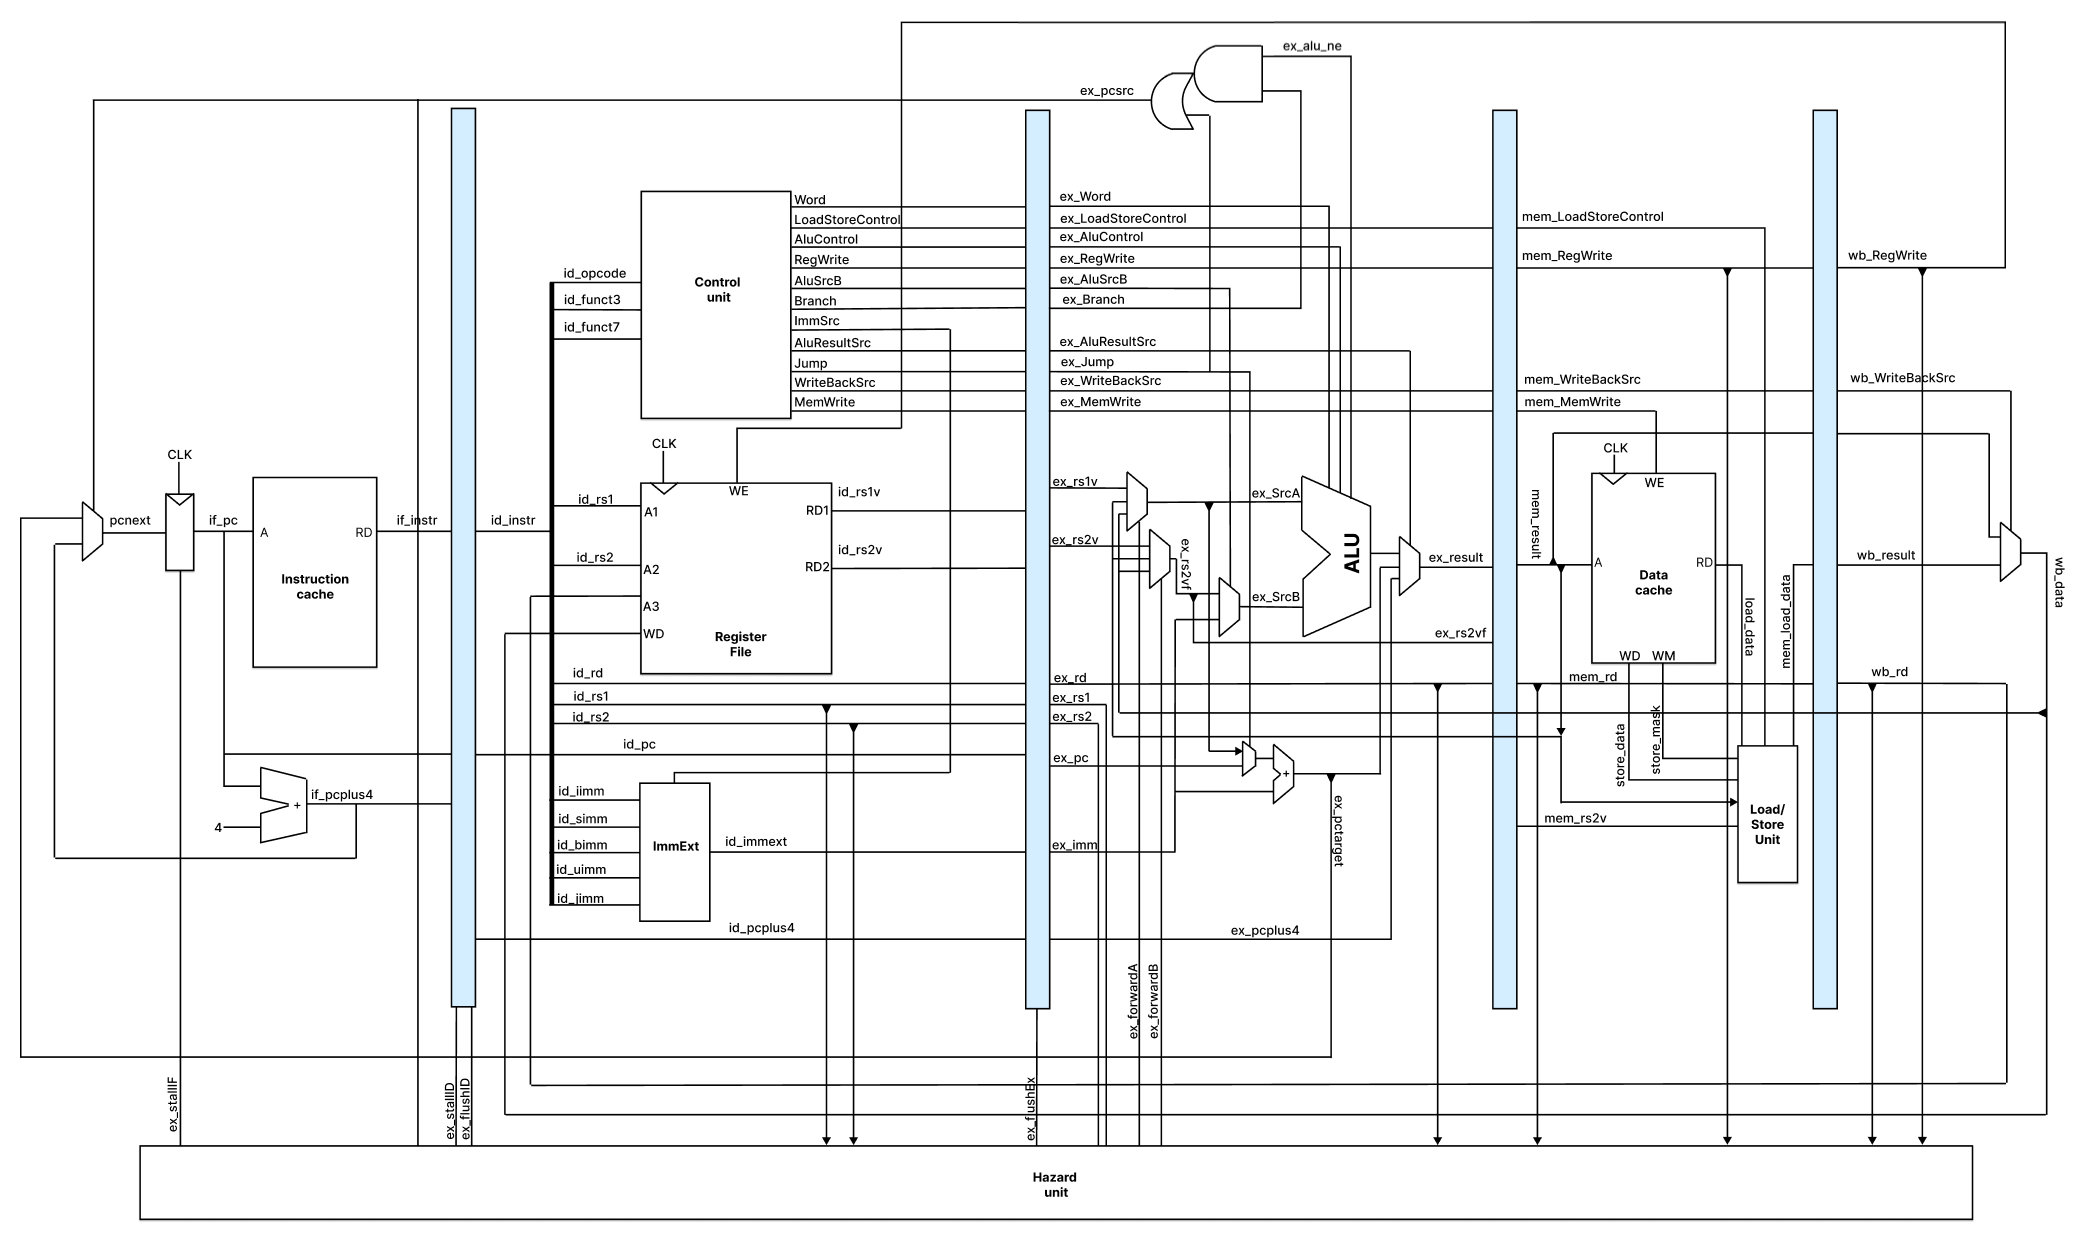
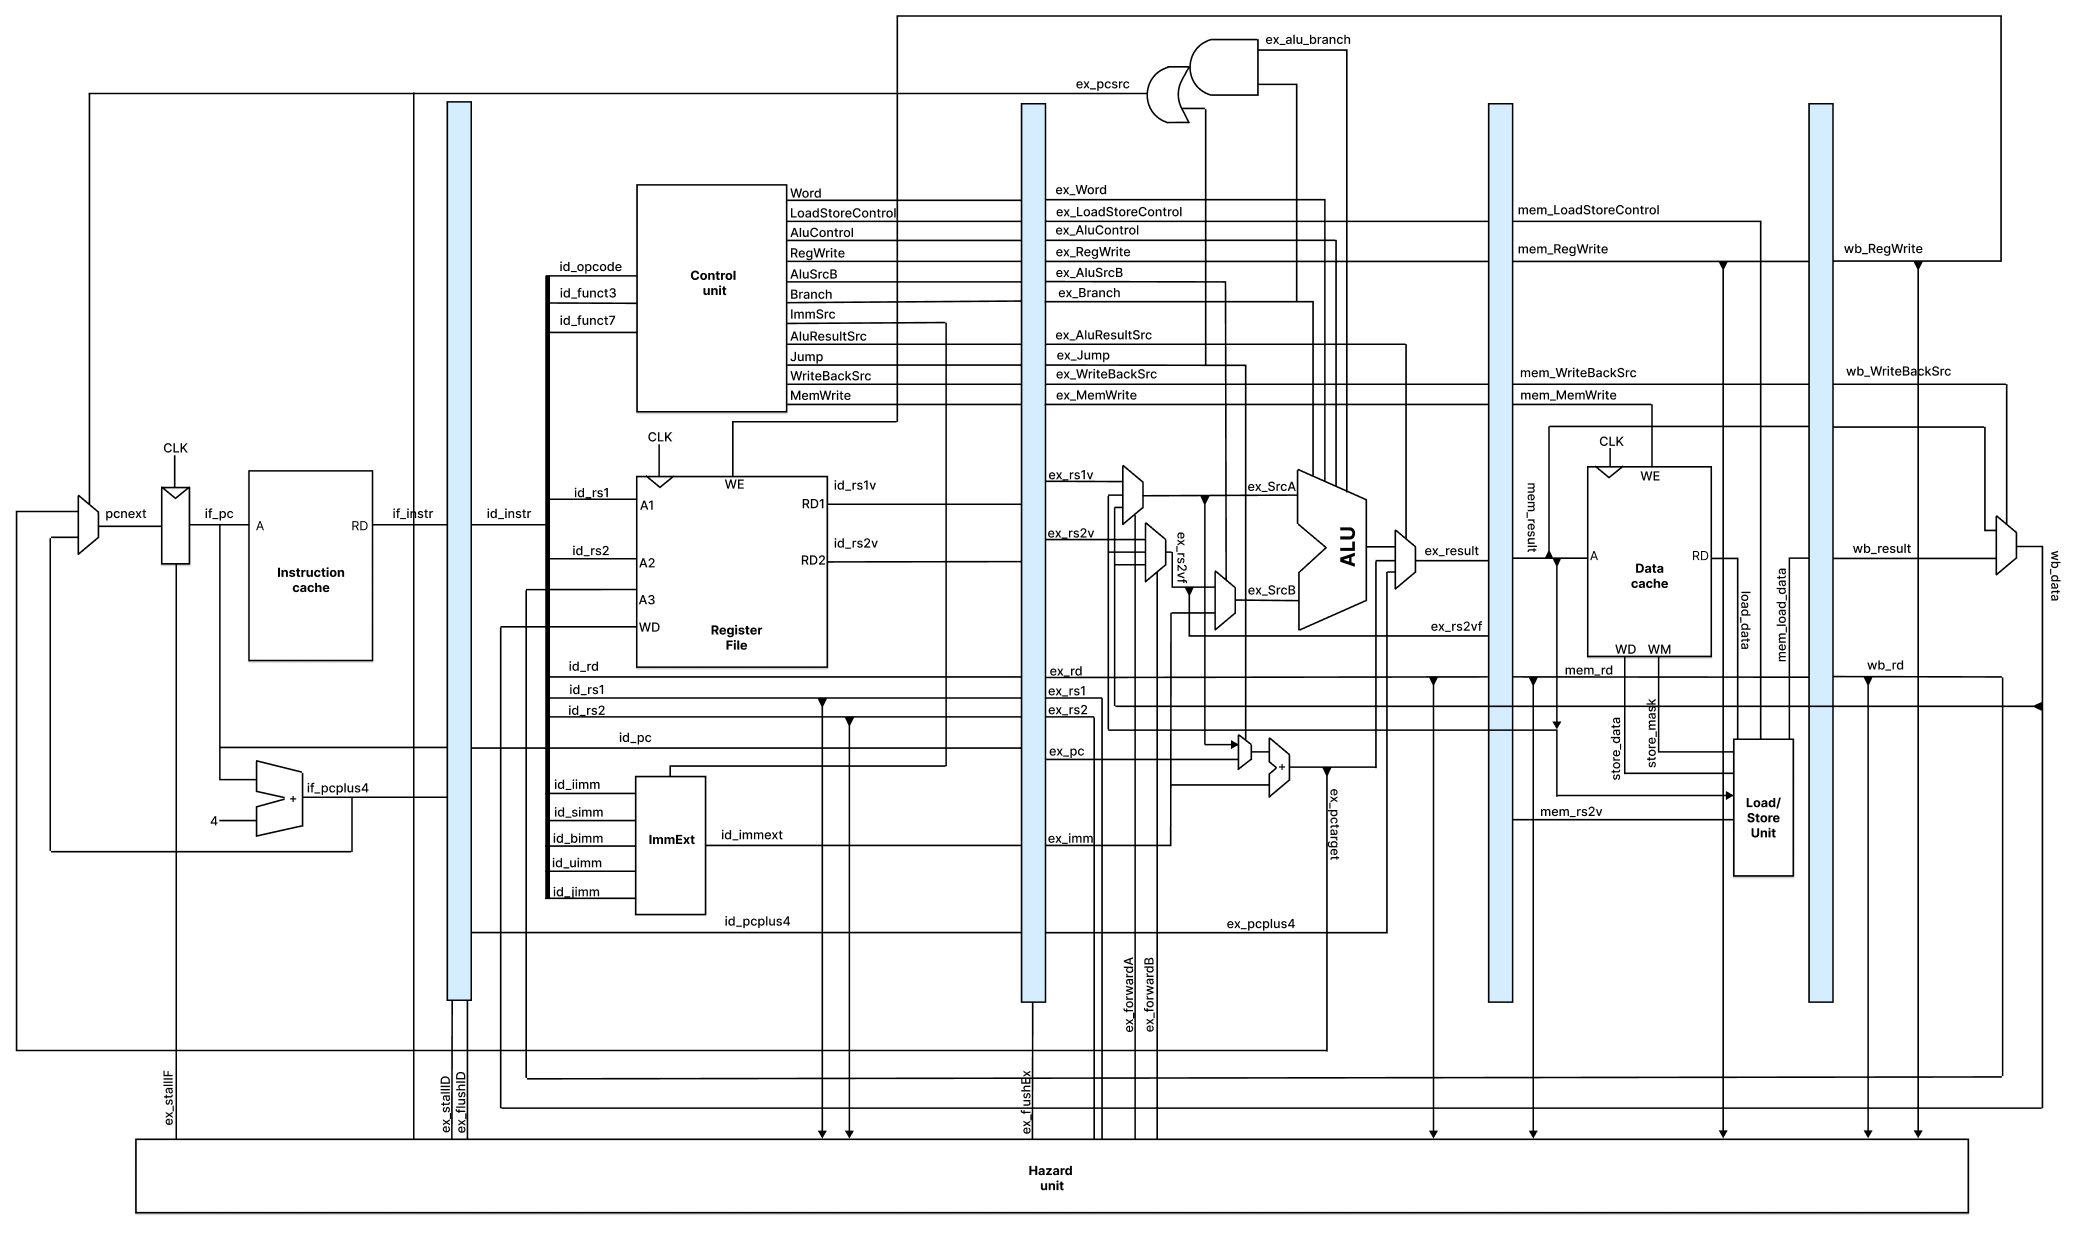
branches

Changed region(s): [[0.0, 0.0, 1.0, 1.0]]

diff --git a/processor/README.md b/processor/README.md
@@ -4,7 +4,7 @@
 ![64-bit RISC-V Core design](./assets/RISCV_29_10_23.png)
 
 5-stage pipelined 64-bit RISC-V core
-- Unsupported instructions: branches except bne
+- Supported instructions: RV32I/RV64I
 - Forwarding for RAW hazards
     - MEM   -> EX
     - WB    -> EX
